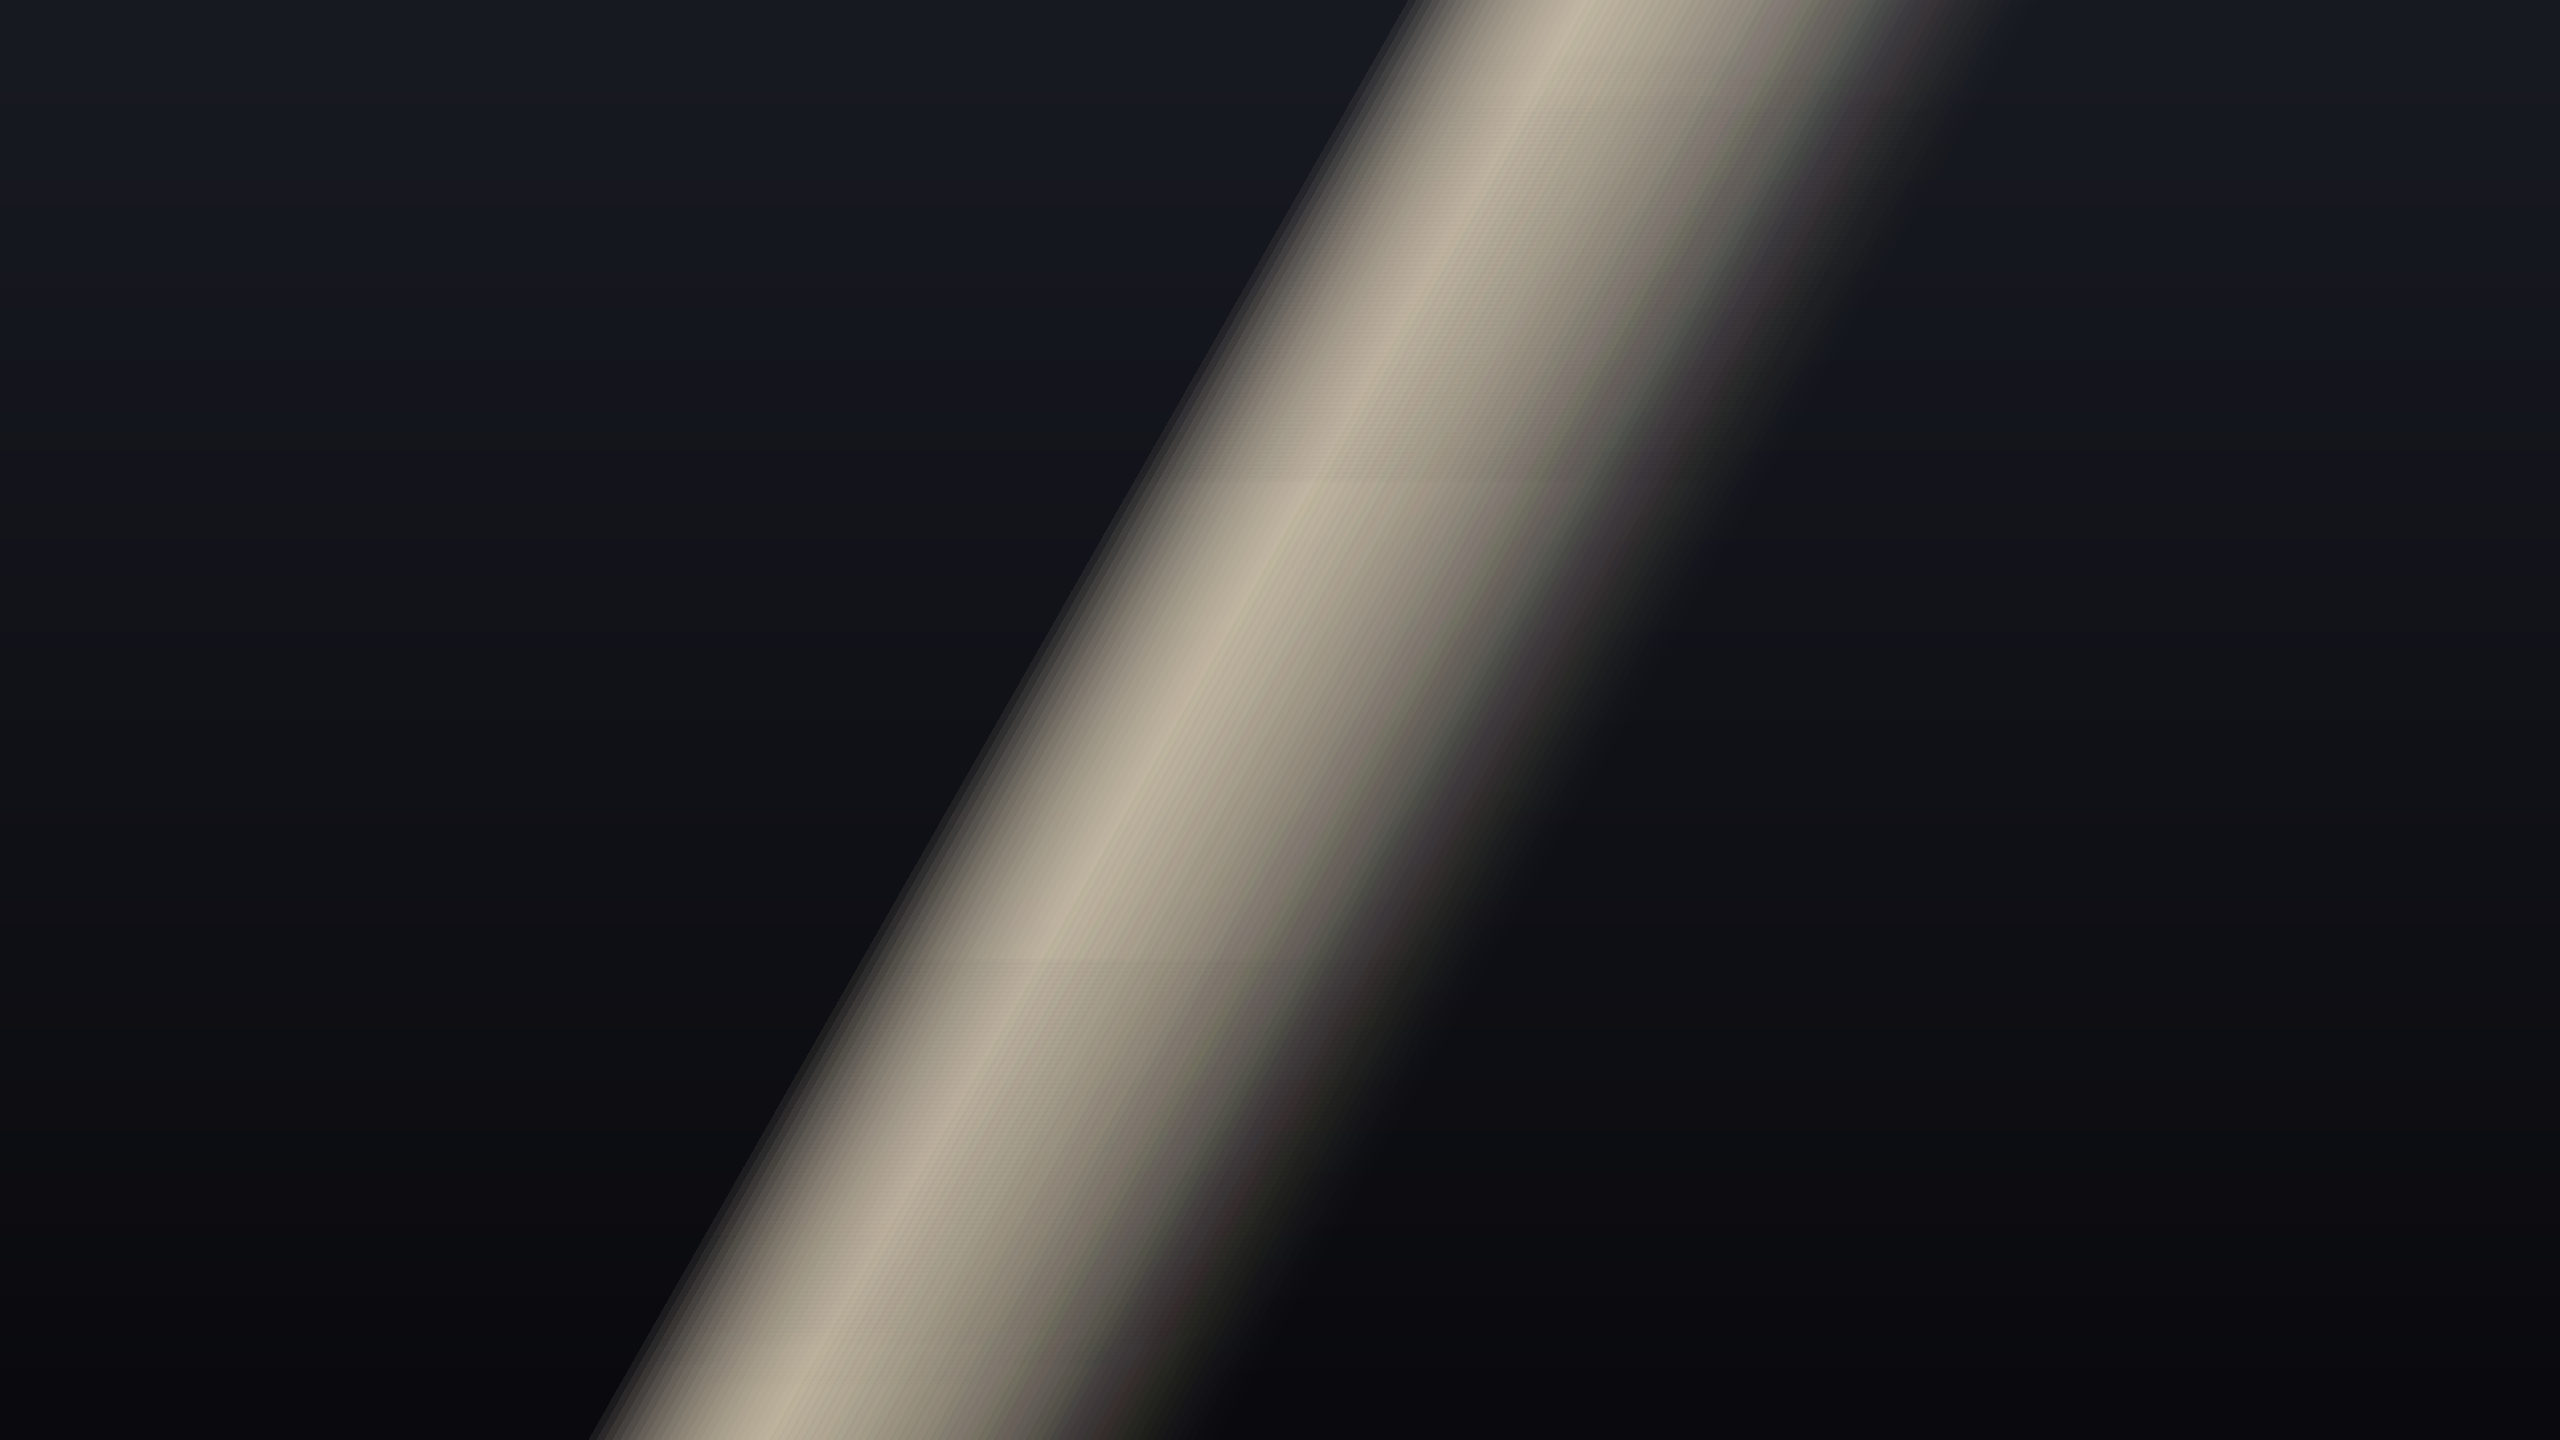
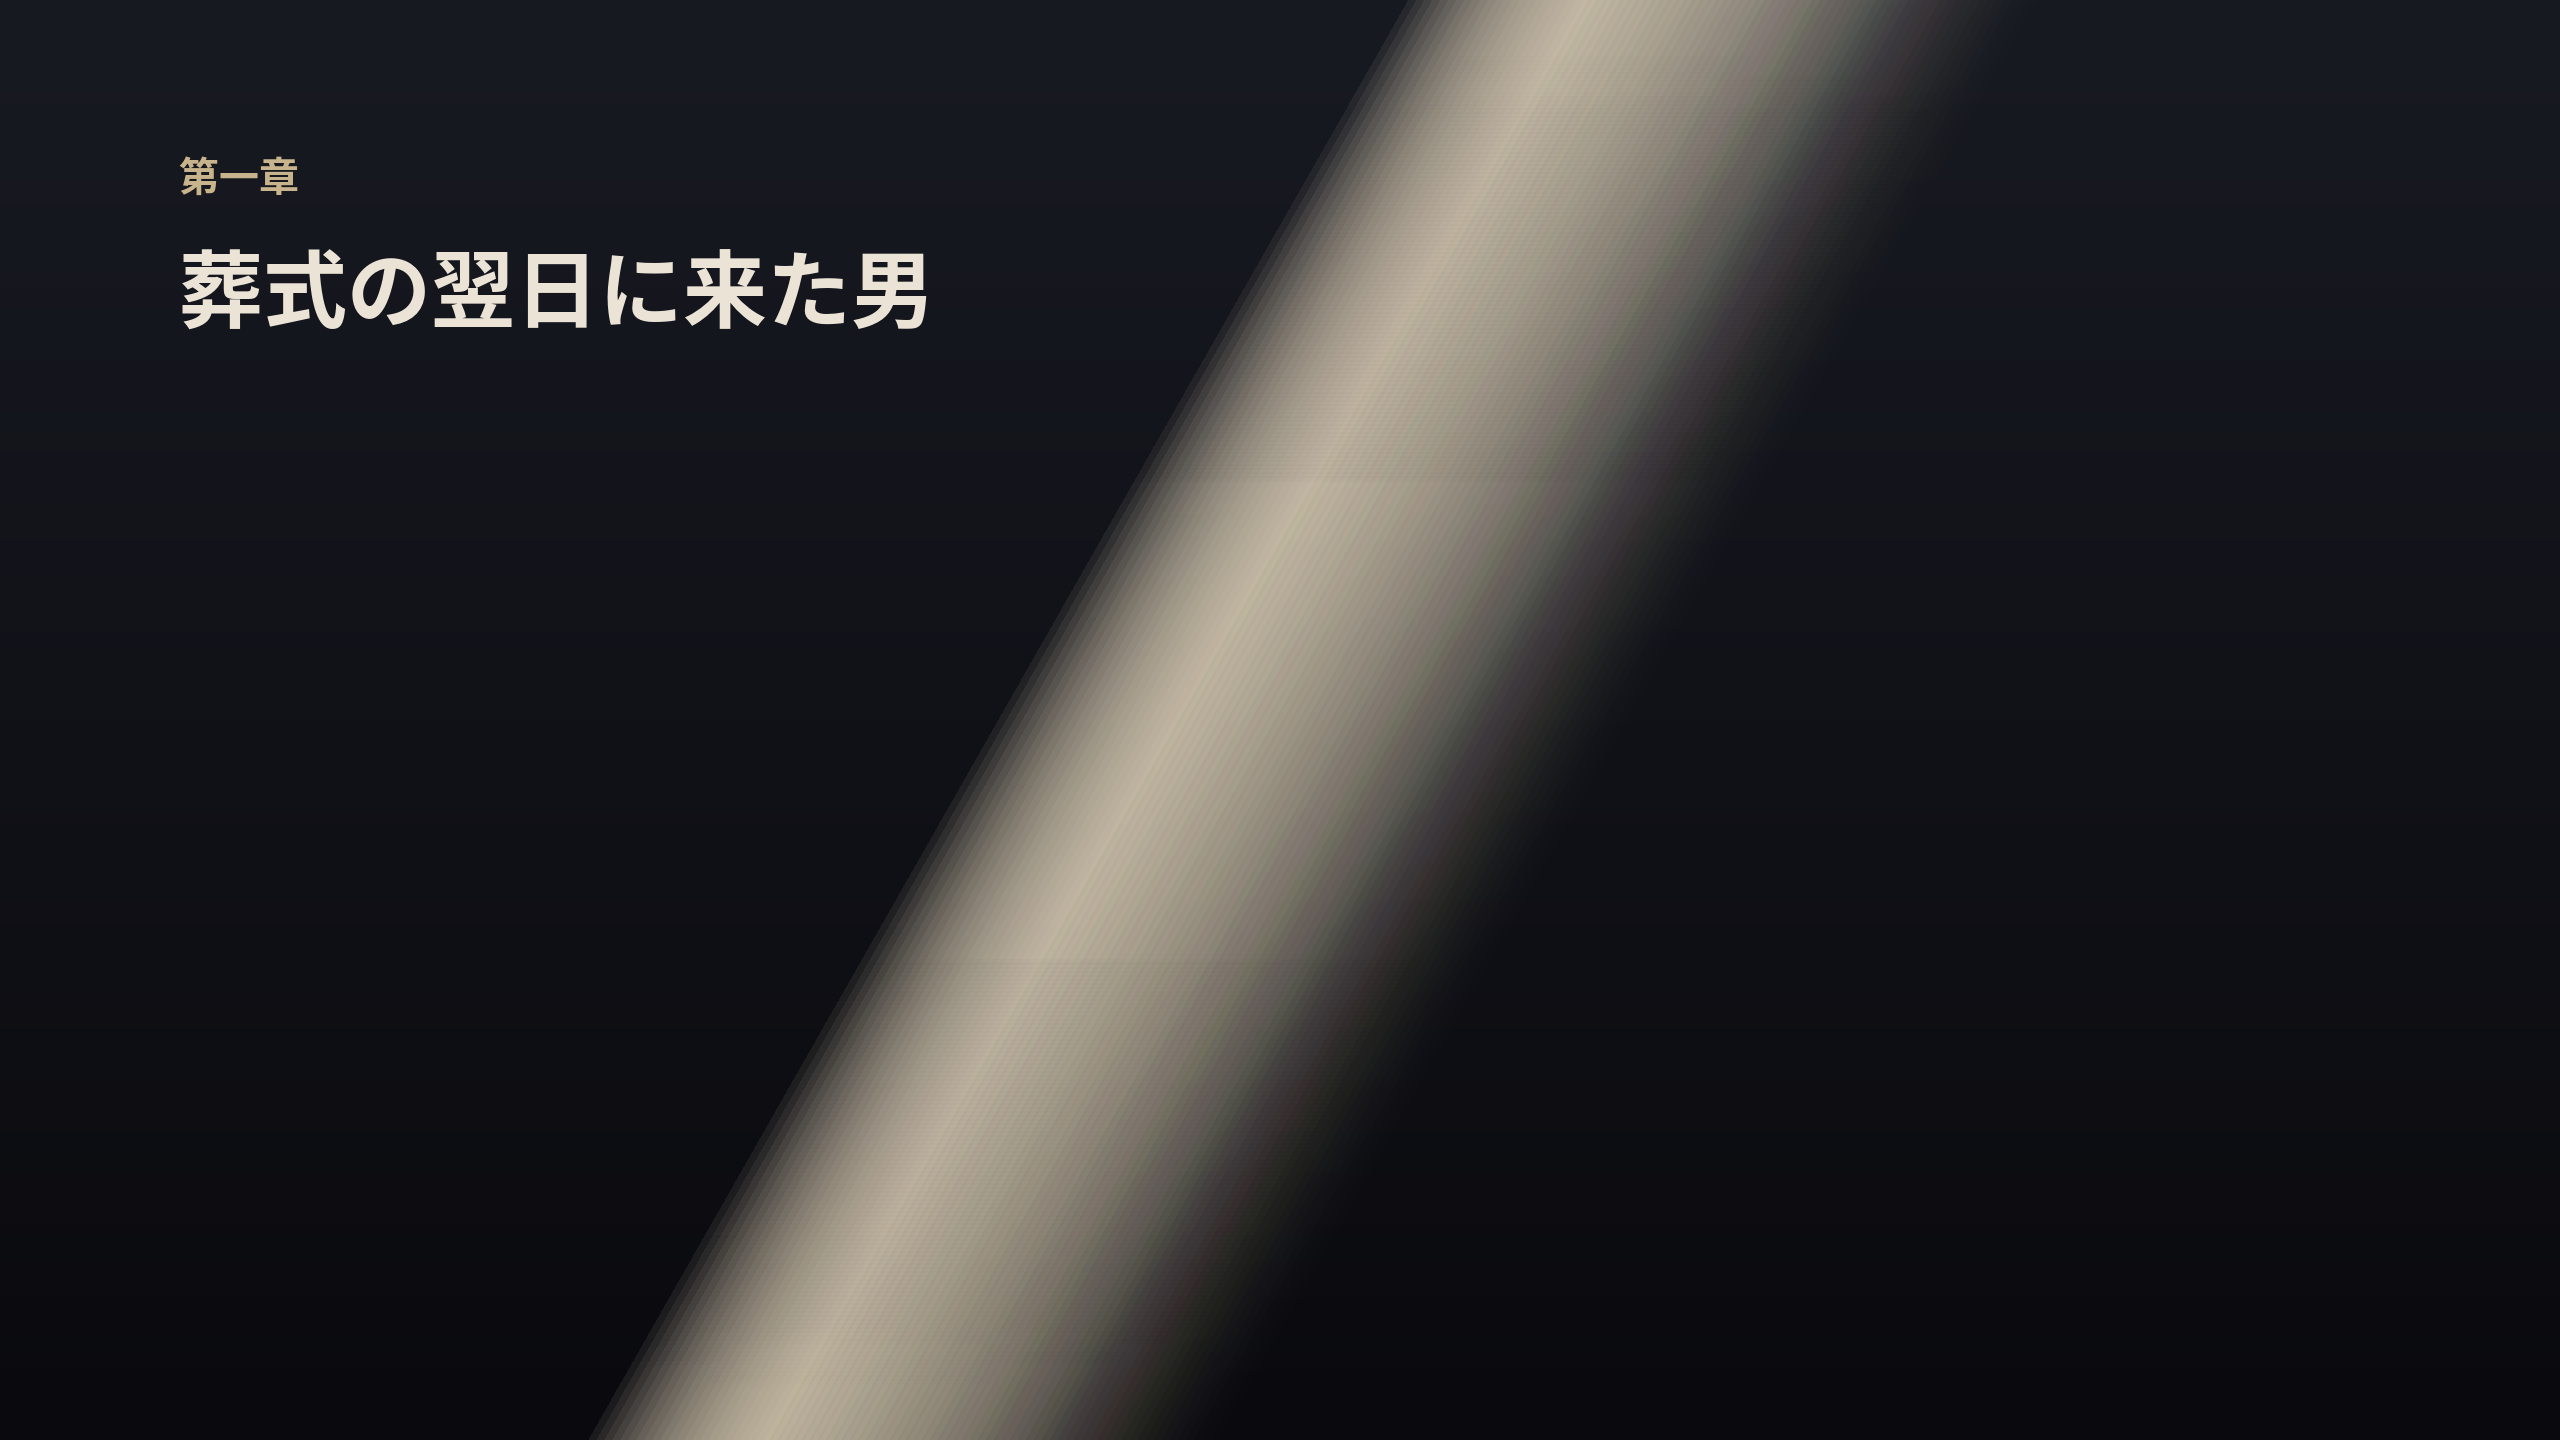
章タイトルを左上に復活（字幕サイズ23と両立）
Claude-Session: https://claude.ai/code/session_018ojhADsrwriWPoavApYbi4

Changed region(s): [[0.0625, 0.1562, 0.375, 0.25], [0.0625, 0.0938, 0.125, 0.125]]

diff --git a/pipeline/build_video.py b/pipeline/build_video.py
@@ -231,9 +231,11 @@ CHAPTER_PALETTES = [  # (上端, 下端) 章の感情に沿った暗色トーン
 
 
 def step_bg(ep: Path) -> None:
-    from PIL import Image, ImageDraw
+    from PIL import Image, ImageDraw, ImageFont
     timeline = json.loads((ep / "timeline.json").read_text(encoding="utf-8"))
     chapters = sorted({s["chapter"] for s in timeline})
+    titles = {s["chapter"]: s["text"] for s in timeline if s["type"] == "title"}
+    font_path = "/usr/share/fonts/opentype/noto/NotoSansCJK-Bold.ttc"
     bg_dir = ep / "bg"
     bg_dir.mkdir(exist_ok=True)
     W2, H2 = W * 2, H * 2  # Ken Burns用に大きめ
@@ -263,7 +265,13 @@ def step_bg(ep: Path) -> None:
         for i in range(120):
             a = int(80 * (i / 120) ** 2)
             d.rectangle([i*6, i*4, W2-i*6, H2-i*4], outline=(0, 0, 0, min(a, 4)), width=6)
-        # 章タイトルは背景に描かない(字幕・映像の邪魔になるため)
+        # 章タイトルは左上(下部の字幕域を避ける)
+        title = titles.get(ch, "")
+        name = title.split("　", 1)[1] if "　" in title else title
+        d.text((W2*0.07, H2*0.10), title.split("　")[0] if "　" in title else f"第{ch}章",
+               font=ImageFont.truetype(font_path, 40), fill=(200, 180, 140, 200))
+        d.text((W2*0.07, H2*0.155), name, font=ImageFont.truetype(font_path, 84),
+               fill=(235, 228, 214, 235))
         img.save(out)
     print(f"bg: {len(chapters)}枚 → bg/")
 
